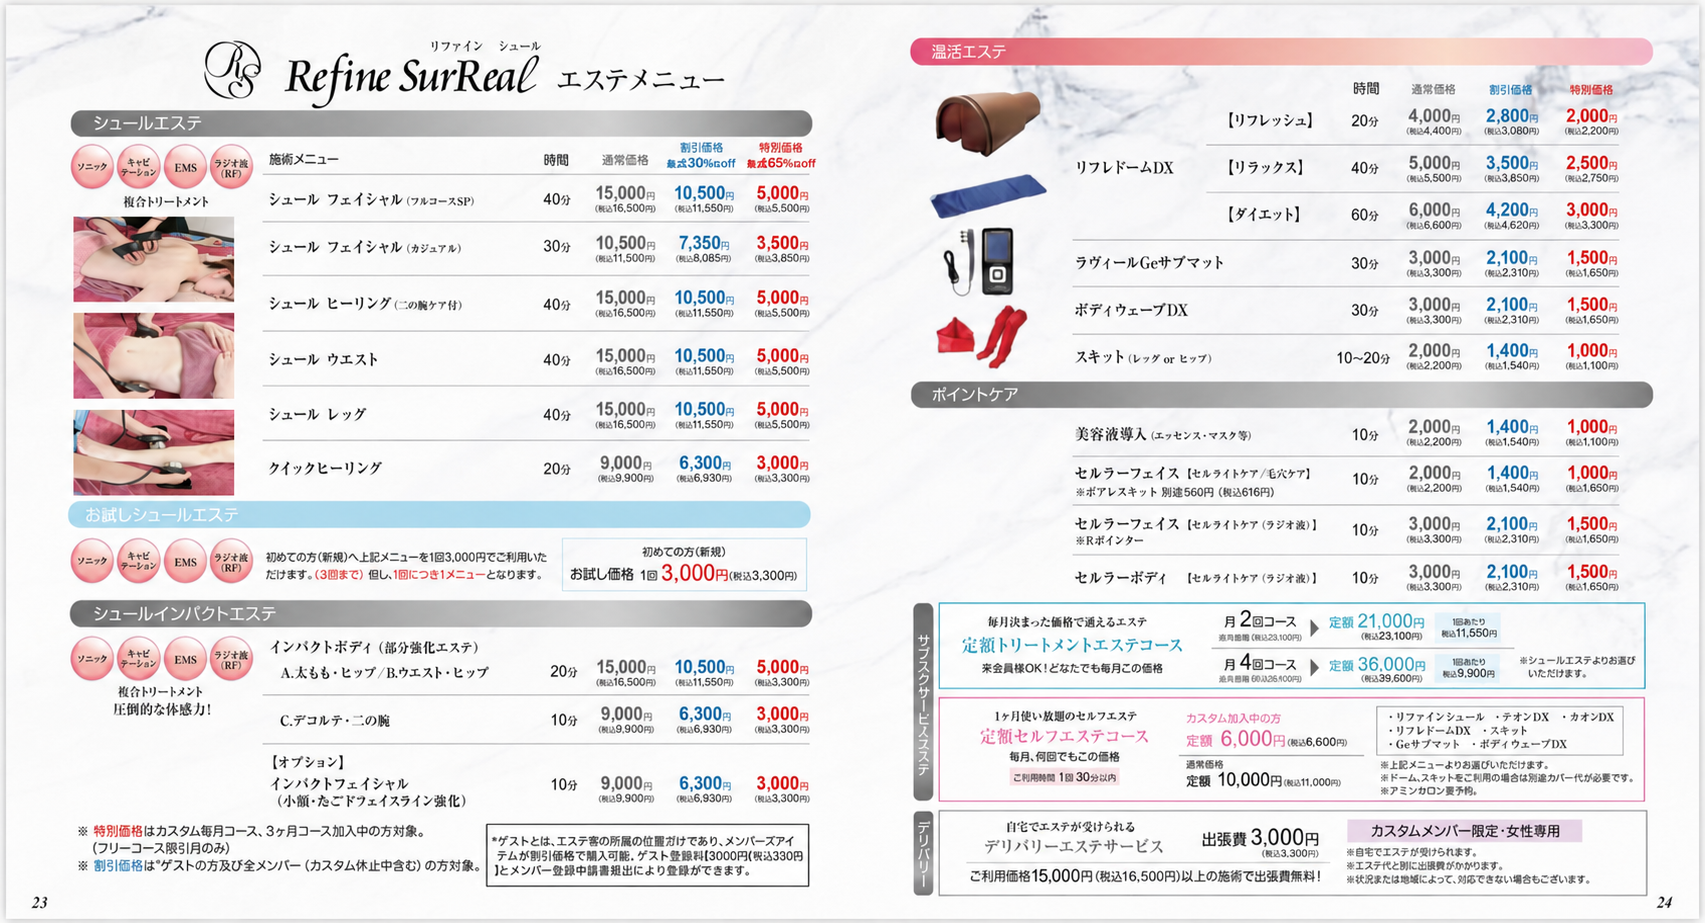
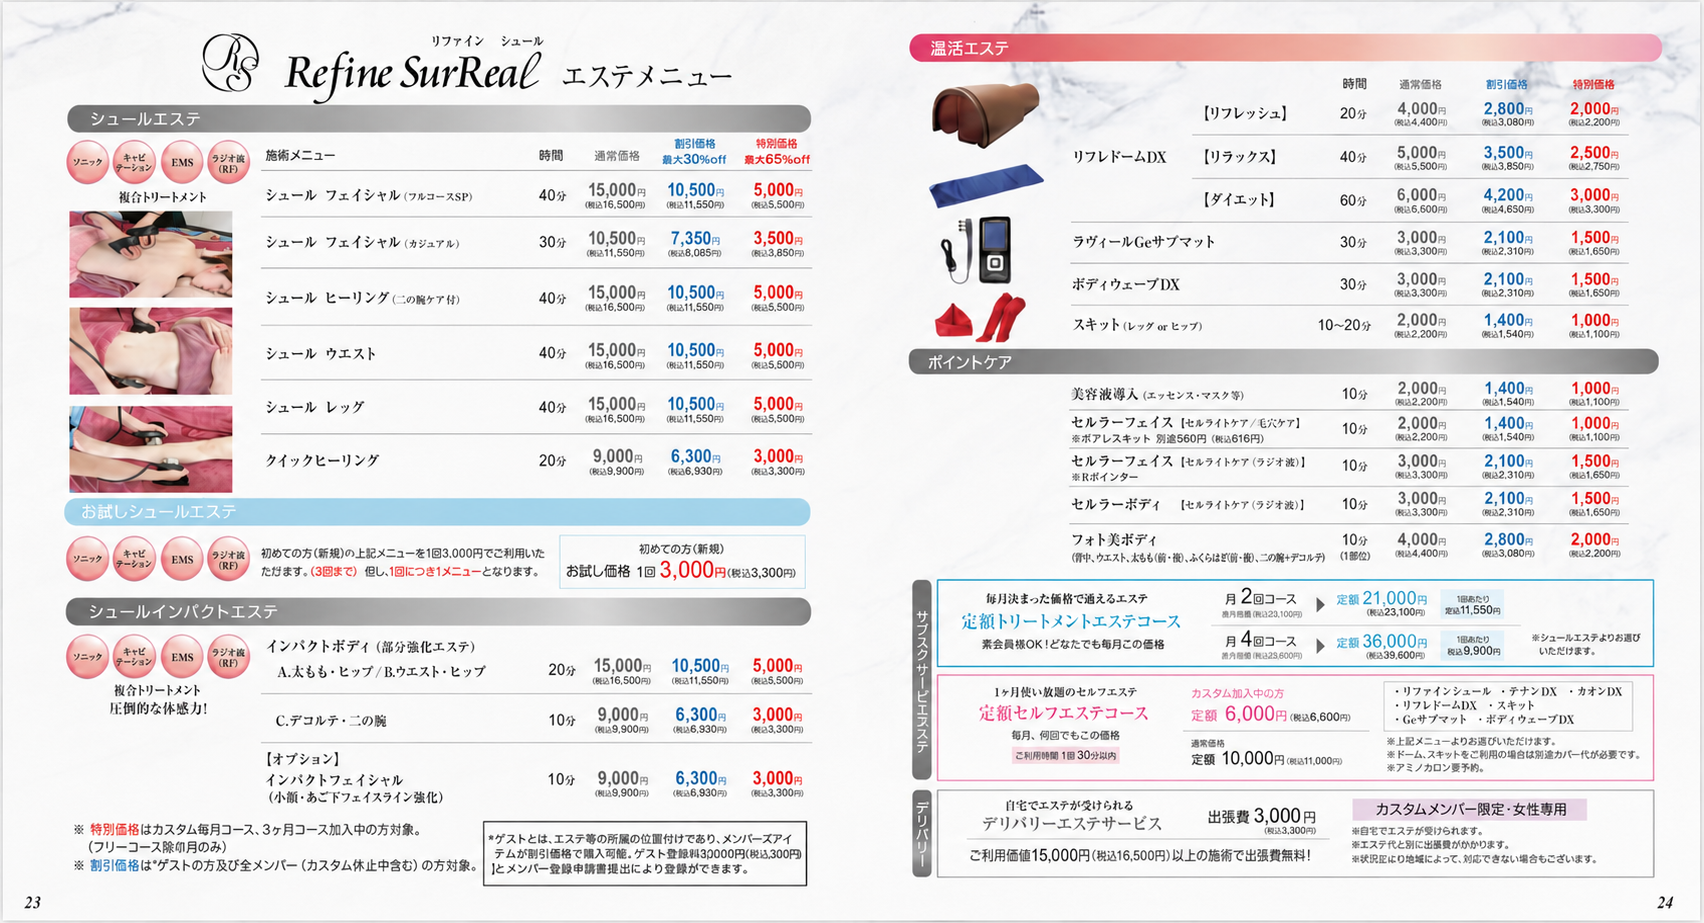
Add Self-e beauty device section and Self-e pricelist
- products.html: 美容機器カテゴリに Refine Self-e を追加
- menu.html: 料金表に Self-e セルフィー エステメニューを追加
- 料金表画像を Refine SurReal 版に更新

diff --git a/products.html b/products.html
@@ -6,7 +6,7 @@
   <title>取り扱い商品 | AMINT Salon Vita</title>
   <link rel="icon" type="image/jpeg" href="/public/images/icon.jpg">
   <link rel="canonical" href="https://www.amint-salon-vita.com/products.html">
-  <meta name="description" content="AMINT Salon Vita 取り扱い商品。DIFACE・LUVIA RUSHE・A-mint Cosmetics と高品質サプリメントをご紹介。">
+  <meta name="description" content="AMINT Salon Vita 取り扱い商品。DIFACE・LUVIA RUSHE・A-mint Cosmetics、高品質サプリメント、業務用光美容器 Refine Self-e をご紹介。">
   <link rel="preconnect" href="https://fonts.googleapis.com">
   <link rel="preconnect" href="https://fonts.gstatic.com" crossorigin>
   <link href="https://fonts.googleapis.com/css2?family=Noto+Serif+JP:wght@300;400;600&family=Noto+Sans+JP:wght@300;400;500&family=Cormorant+Garamond:ital,wght@0,300;0,400;1,300&display=swap" rel="stylesheet">
@@ -44,6 +44,29 @@
     .supp-body p{font-size:.75rem;color:var(--text-muted);line-height:1.75;margin-bottom:.7rem}
     .supp-hint{display:inline-flex;align-items:center;gap:.3rem;font-size:.7rem;color:var(--blue-500);transition:gap .3s}
     .supp-card:hover .supp-hint{gap:.55rem}
+
+    #device{background:var(--off-white)}
+    .device-feature{display:grid;grid-template-columns:1fr 1.1fr;gap:3.5rem;align-items:center;max-width:1000px;margin:0 auto}
+    @media(max-width:760px){.device-feature{grid-template-columns:1fr;gap:2rem}}
+    .device-img{border-radius:8px;overflow:hidden;background:#0a0a0a;aspect-ratio:4/5;box-shadow:0 24px 56px rgba(0,0,0,.18)}
+    .device-img img{width:100%;height:100%;object-fit:cover}
+    .device-badge{display:inline-block;font-size:.6rem;padding:.25rem .8rem;border-radius:50px;letter-spacing:.1em;font-weight:500;background:linear-gradient(135deg,#1f2937,#4b5563);color:white;margin-bottom:1rem}
+    .device-name{font-family:'Cormorant Garamond',serif;font-size:2.1rem;font-style:italic;color:var(--text-dark);letter-spacing:.05em;margin-bottom:.3rem;line-height:1.2}
+    .device-sub{font-family:'Noto Serif JP',serif;font-size:.95rem;color:var(--blue-700);margin-bottom:1.3rem}
+    .device-desc{font-size:.83rem;color:var(--text-muted);line-height:2;margin-bottom:1.4rem}
+    .device-points{display:flex;gap:.55rem;flex-wrap:wrap;margin-bottom:1.5rem}
+    .device-points span{font-size:.71rem;padding:.35rem .9rem;border-radius:50px;background:white;color:var(--text-dark);border:1px solid #e8e8e8}
+    .device-price{display:flex;align-items:baseline;gap:.8rem;flex-wrap:wrap;margin-bottom:1.3rem}
+    .device-price .now{font-family:'Noto Serif JP',serif;font-size:1.55rem;color:var(--blue-700);font-weight:600}
+    .device-price .now small{font-size:.72rem;color:var(--text-muted);font-weight:400;margin-left:.2rem}
+    .device-price .was{font-size:.78rem;color:var(--text-muted);text-decoration:line-through}
+    .device-specs{font-size:.74rem;color:var(--text-muted);line-height:1.95;border-top:1px solid #e8e8e8;padding-top:1.1rem}
+    .device-specs dt{font-weight:500;color:var(--text-dark)}
+    .device-probe{display:grid;grid-template-columns:1fr 1fr;gap:1rem;margin-top:1.2rem}
+    @media(max-width:480px){.device-probe{grid-template-columns:1fr}}
+    .device-probe .pb{background:white;border:1px solid #e8e8e8;border-radius:6px;padding:.9rem 1rem}
+    .device-probe .pb h4{font-family:'Noto Serif JP',serif;font-size:.8rem;color:var(--text-dark);margin-bottom:.35rem}
+    .device-probe .pb p{font-size:.72rem;color:var(--text-muted);line-height:1.7;margin:0}
   </style>
 </head>
 <body>
@@ -189,6 +212,62 @@
         <div class="supp-body">
           <h3>Delyo</h3>
           <p>リンゴポリフェノール配合のデト茶ダイエットティー。</p>
+        </div>
+      </div>
+    </div>
+  </div>
+</section>
+
+<div class="wave-wrap" style="background:white;">
+  <svg viewBox="0 0 1200 80" preserveAspectRatio="none" height="80"><path d="M0,40 C200,80 400,0 600,40 C800,80 1000,10 1200,40 L1200,80 L0,80 Z" fill="var(--off-white)"/></svg>
+</div>
+
+<!-- BEAUTY DEVICE -->
+<section id="device">
+  <div class="container">
+    <div style="text-align:center;" class="reveal">
+      <span class="s-label">Beauty Device</span>
+      <h2 class="s-title">美容機器</h2>
+      <div class="s-line cx"></div>
+      <p style="font-size:.87rem;color:var(--text-muted);margin-bottom:3rem;line-height:2;max-width:520px;margin-left:auto;margin-right:auto;">
+        サロンレベルのケアをご家庭で。リムーブケアとフォトケアを1台で叶える業務用光美容器。
+      </p>
+    </div>
+    <div class="device-feature reveal">
+      <div class="device-img"><img src="public/images/prod-selfe.png" alt="Refine Self-e 業務用光美容器"></div>
+      <div>
+        <span class="device-badge">Beauty Device</span>
+        <p class="device-name">Self-e</p>
+        <p class="device-sub">Refine 業務用光美容器 ｜ デュアル仕様</p>
+        <p class="device-desc">
+          リムーブケア（ムダ毛処理）とフォトケア（美肌・美ボディ）を1台に搭載。
+          約30万発のサファイヤガラスフィルター搭載で、薬剤・ジェル不要。
+          人目を気にせず、家族で使えるプロ品質のセルフケアを。
+        </p>
+        <div class="device-points">
+          <span>リムーブケア</span>
+          <span>フォトケア</span>
+          <span>約30万発</span>
+          <span>クール機能</span>
+          <span>オート / マニュアル</span>
+        </div>
+        <div class="device-price">
+          <span class="now">特別価格 ¥178,000<small>（税込 ¥195,800）</small></span>
+          <span class="was">通常 ¥218,000</span>
+        </div>
+        <dl class="device-specs">
+          <dt>仕様</dt>
+          <dd>定格電圧 AC100〜240V ／ 50・60Hz ／ 本体サイズ W225×D248×H322mm ／ 質量 本体約2.5kg・プローブ約0.52kg ／ コード長 各約1.8m</dd>
+        </dl>
+        <div class="device-probe">
+          <div class="pb">
+            <h4>フォトプローブ（白）</h4>
+            <p>美肌・美ボディ用<br>通常 ¥58,000 ／ メンバーズ ¥48,000</p>
+          </div>
+          <div class="pb">
+            <h4>リムーブプローブ（黒）</h4>
+            <p>ムダ毛処理用 ／ 追加用<br>通常 ¥58,000 ／ メンバーズ ¥48,000</p>
+          </div>
         </div>
       </div>
     </div>

diff --git a/menu.html b/menu.html
@@ -211,6 +211,9 @@
     <div class="reveal">
       <img src="public/images/menu-pricelist.png" alt="Refine SurReal エステメニュー料金表" style="width:100%;border-radius:8px;box-shadow:0 8px 40px rgba(0,0,0,.1);">
     </div>
+    <div class="reveal" style="margin-top:2rem;">
+      <img src="public/images/selfe-pricelist.png" alt="Self-e セルフィー エステメニュー料金表" style="width:100%;border-radius:8px;box-shadow:0 8px 40px rgba(0,0,0,.1);">
+    </div>
   </div>
 </section>
 
